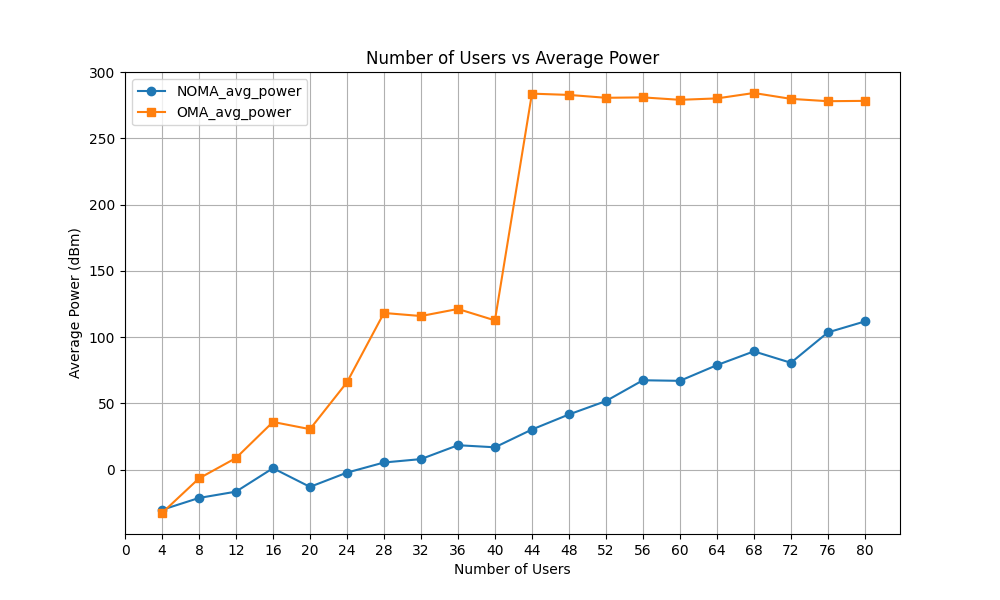
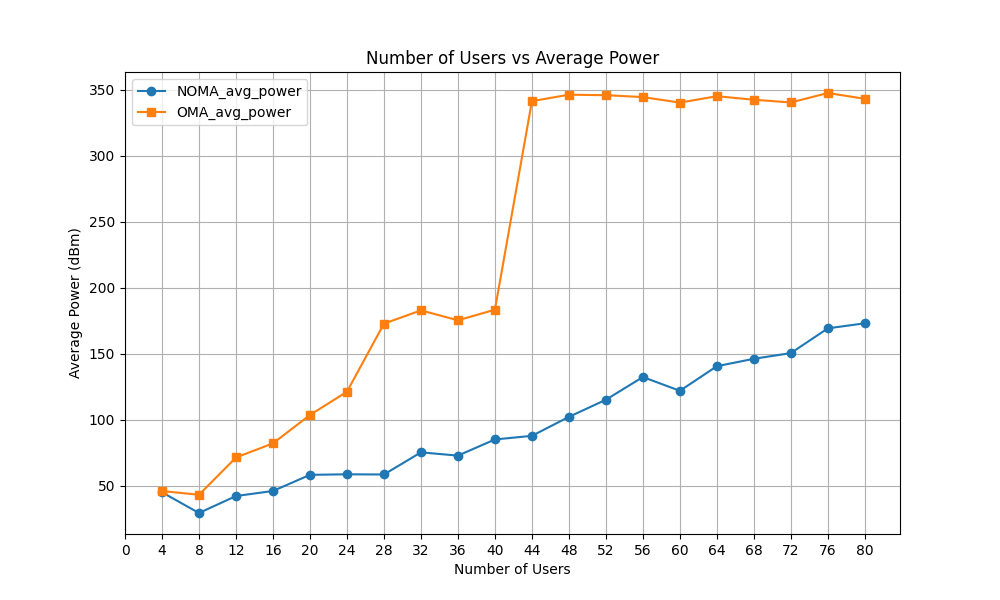
environ parameter height and noise_dBm changed

diff --git a/inputs.py b/inputs.py
@@ -1,6 +1,6 @@
 uav = {
     'coordinate': (0, 0),
-    'height': 100,                      # in meters
+    'height': 300,                      # in meters
     'service_classes': [1, 3, 5, 20]    # data rate in different service classes
 }
 
@@ -11,7 +11,7 @@ environment_parameters={
     'b': 0.136,         # parameter for urban environment
     'eta': 20,          # excessive attenuation factor for Non-LoS links, in dB
     'alpha': 3,         # path loss exponent
-    'noise_dBm': -174   # noise density in dBm/Hz
+    'noise_dBm': -130   # noise density in dBm
 }
 
 system_parameters={
